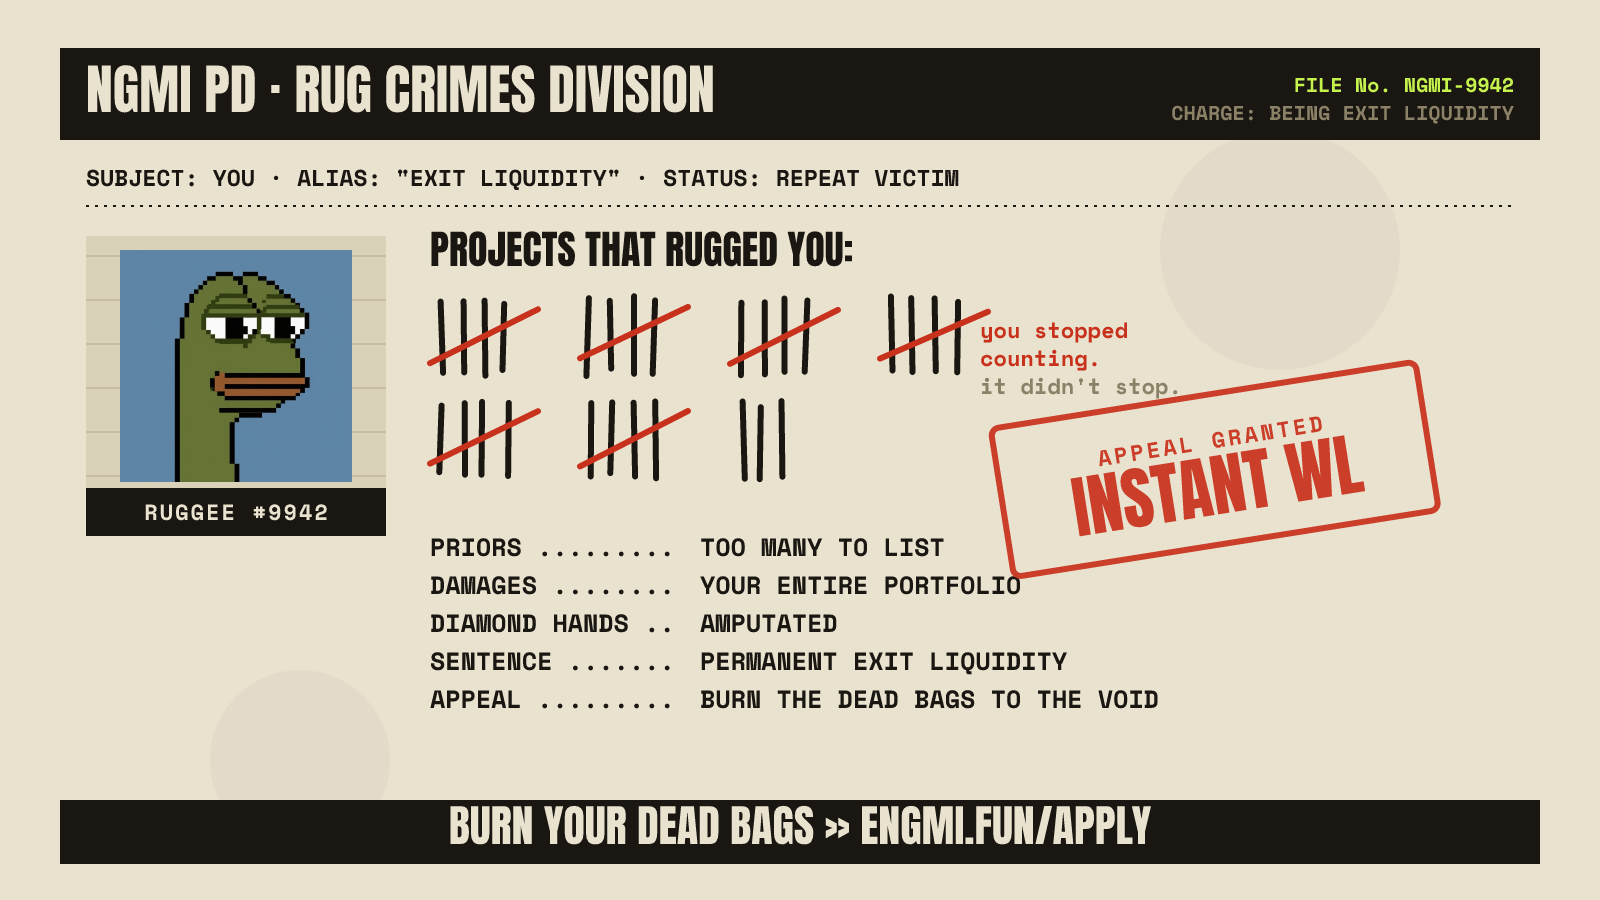
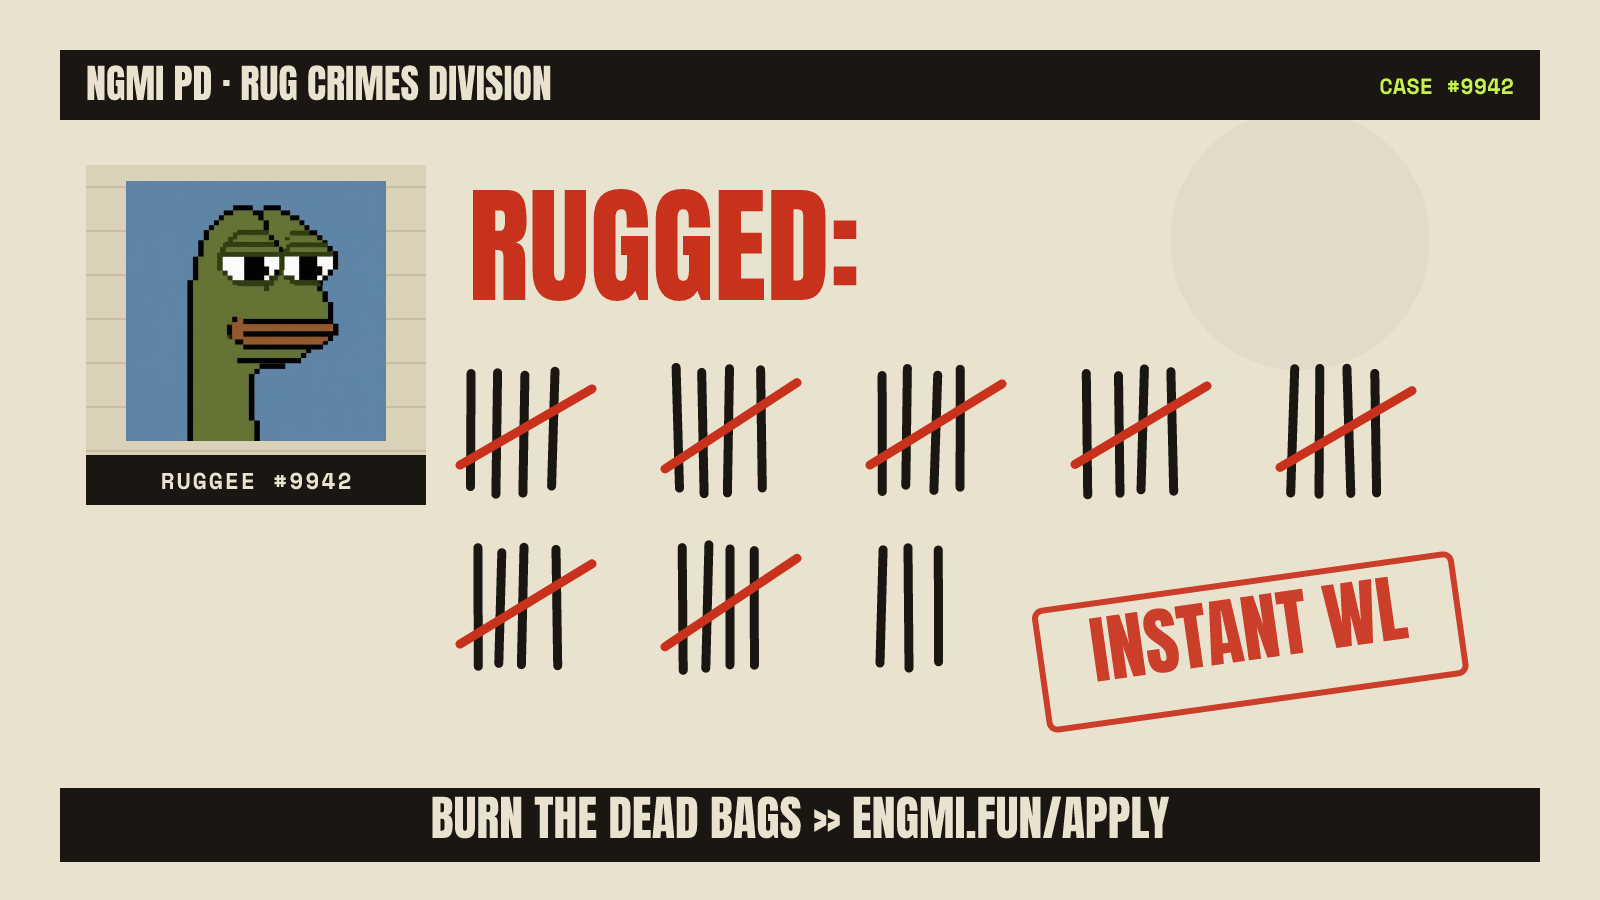
6th X post graphic: minimal rap-sheet (tally-mark hero, far less text)

diff --git a/make-x-launch-6.js b/make-x-launch-6.js
@@ -1,76 +1,59 @@
-// Sixth X post graphic. "Rap sheet" / case-file look: how many projects rugged you -> burn for instant WL.
+// Sixth X post graphic. Minimal "case file": a mugshot + a wall of tally marks = how many rugged you.
 const fs = require("fs");
 const { Resvg } = require("@resvg/resvg-js");
 const FONTS = ["assets/fonts/Anton-Regular.ttf", "assets/fonts/SpaceMono-Bold.ttf"];
-const PAPER = "#e9e2cf", INK = "#1a1712", RED = "#c8311c", SOFT = "#8a8167", PANEL = "#d9d1b8";
+const PAPER = "#e9e2cf", INK = "#1a1712", RED = "#c8311c", ACID = "#c6f24e", PANEL = "#d9d1b8";
 const pepe = "data:image/png;base64," + fs.readFileSync("assets/gallery/09.png").toString("base64");
 
-// scratched tally marks (groups of 5: 4 verticals + a red slash), with hand jitter
+// big hand-scratched tally marks (groups of 5: 4 verticals + a red slash)
 function tally(ox, oy) {
-  let s = "", groups = 7, perRow = 4, gapX = 150, gapY = 104;
+  let s = "", groups = 8, perRow = 5, gapX = 205, gapY = 176, H = 118, sp = 26;
   const j = (a) => (Math.random() * 2 - 1) * a;
   for (let g = 0; g < groups; g++) {
     const col = g % perRow, row = Math.floor(g / perRow);
     const x0 = ox + col * gapX, y0 = oy + row * gapY;
     const full = g < groups - 1, marks = full ? 4 : 3;
     for (let i = 0; i < marks; i++) {
-      const x = x0 + i * 22 + j(3);
-      s += `<line x1="${x.toFixed(1)}" y1="${(y0 + j(4)).toFixed(1)}" x2="${(x + j(3)).toFixed(1)}" y2="${(y0 + 72 + j(4)).toFixed(1)}" stroke="${INK}" stroke-width="6" stroke-linecap="round"/>`;
+      const x = x0 + i * sp + j(4);
+      s += `<line x1="${x.toFixed(1)}" y1="${(y0 + j(5)).toFixed(1)}" x2="${(x + j(4)).toFixed(1)}" y2="${(y0 + H + j(5)).toFixed(1)}" stroke="${INK}" stroke-width="9" stroke-linecap="round"/>`;
     }
-    if (full) s += `<line x1="${(x0 - 10).toFixed(1)}" y1="${(y0 + 62 + j(4)).toFixed(1)}" x2="${(x0 + 4 * 22 + 10).toFixed(1)}" y2="${(y0 + 8 + j(4)).toFixed(1)}" stroke="${RED}" stroke-width="6" stroke-linecap="round"/>`;
+    if (full) s += `<line x1="${(x0 - 14).toFixed(1)}" y1="${(y0 + H * 0.8 + j(5)).toFixed(1)}" x2="${(x0 + 4 * sp + 14).toFixed(1)}" y2="${(y0 + H * 0.12 + j(5)).toFixed(1)}" stroke="${RED}" stroke-width="9" stroke-linecap="round"/>`;
   }
   return s;
 }
-const rec = (y, k, v) => `<text x="430" y="${y}" font-family="Space Mono" font-weight="700" font-size="25" fill="${INK}">${k}</text><text x="700" y="${y}" font-family="Space Mono" font-weight="700" font-size="25" fill="${INK}">${v}</text>`;
 
 const svg = `
 <svg xmlns="http://www.w3.org/2000/svg" width="1600" height="900" viewBox="0 0 1600 900">
   <rect width="1600" height="900" fill="${PAPER}"/>
-  <circle cx="1280" cy="250" r="120" fill="#000" opacity="0.03"/>
-  <circle cx="300" cy="760" r="90" fill="#000" opacity="0.03"/>
+  <circle cx="1300" cy="240" r="130" fill="#000" opacity="0.03"/>
 
-  <!-- header bar -->
-  <rect x="60" y="48" width="1480" height="92" fill="${INK}"/>
-  <text x="86" y="112" font-family="Anton" font-size="54" fill="${PAPER}">NGMI PD &#183; RUG CRIMES DIVISION</text>
-  <text x="1514" y="92" text-anchor="end" font-family="Space Mono" font-weight="700" font-size="20" fill="#c6f24e">FILE No. NGMI-9942</text>
-  <text x="1514" y="120" text-anchor="end" font-family="Space Mono" font-weight="700" font-size="20" fill="${SOFT}">CHARGE: BEING EXIT LIQUIDITY</text>
-
-  <!-- subject line -->
-  <text x="86" y="186" font-family="Space Mono" font-weight="700" font-size="23" fill="${INK}">SUBJECT: YOU  &#183;  ALIAS: "EXIT LIQUIDITY"  &#183;  STATUS: REPEAT VICTIM</text>
-  <line x1="86" y1="206" x2="1514" y2="206" stroke="${INK}" stroke-width="2" stroke-dasharray="3 6"/>
+  <!-- header strip -->
+  <rect x="60" y="50" width="1480" height="70" fill="${INK}"/>
+  <text x="86" y="100" font-family="Anton" font-size="40" fill="${PAPER}">NGMI PD &#183; RUG CRIMES DIVISION</text>
+  <text x="1514" y="94" text-anchor="end" font-family="Space Mono" font-weight="700" font-size="22" fill="${ACID}">CASE #9942</text>
 
   <!-- mugshot -->
-  <g transform="translate(86,236)">
-    <rect width="300" height="300" fill="${PANEL}"/>
-    ${[0, 1, 2, 3, 4, 5].map((i) => `<line x1="0" y1="${20 + i * 44}" x2="300" y2="${20 + i * 44}" stroke="#b3aa8e" stroke-width="1"/>`).join("")}
-    <image href="${pepe}" x="34" y="14" width="232" height="232"/>
-    <rect x="0" y="252" width="300" height="48" fill="${INK}"/>
-    <text x="150" y="284" text-anchor="middle" font-family="Space Mono" font-weight="700" font-size="22" fill="${PAPER}" letter-spacing="2">RUGGEE #9942</text>
+  <g transform="translate(86,165)">
+    <rect width="340" height="340" fill="${PANEL}"/>
+    ${[0, 1, 2, 3, 4, 5, 6].map((i) => `<line x1="0" y1="${22 + i * 44}" x2="340" y2="${22 + i * 44}" stroke="#b3aa8e" stroke-width="1"/>`).join("")}
+    <image href="${pepe}" x="40" y="16" width="260" height="260"/>
+    <rect x="0" y="290" width="340" height="50" fill="${INK}"/>
+    <text x="170" y="324" text-anchor="middle" font-family="Space Mono" font-weight="700" font-size="23" fill="${PAPER}" letter-spacing="2">RUGGEE #9942</text>
   </g>
 
-  <!-- record column -->
-  <text x="430" y="266" font-family="Anton" font-size="40" fill="${INK}">PROJECTS THAT RUGGED YOU:</text>
-  ${tally(440, 300)}
-  <text x="980" y="338" font-family="Space Mono" font-weight="700" font-size="22" fill="${RED}">you stopped</text>
-  <text x="980" y="366" font-family="Space Mono" font-weight="700" font-size="22" fill="${RED}">counting.</text>
-  <text x="980" y="394" font-family="Space Mono" font-weight="700" font-size="22" fill="${SOFT}">it didn't stop.</text>
+  <!-- hero: RUGGED + tally wall -->
+  <text x="468" y="300" font-family="Anton" font-size="128" fill="${RED}">RUGGED:</text>
+  ${tally(474, 372)}
 
-  ${rec(556, "PRIORS .........", "TOO MANY TO LIST")}
-  ${rec(594, "DAMAGES ........", "YOUR ENTIRE PORTFOLIO")}
-  ${rec(632, "DIAMOND HANDS ..", "AMPUTATED")}
-  ${rec(670, "SENTENCE .......", "PERMANENT EXIT LIQUIDITY")}
-  ${rec(708, "APPEAL .........", "BURN THE DEAD BAGS TO THE VOID")}
-
-  <!-- red verdict stamp -->
-  <g transform="rotate(-9 1230 470)">
-    <rect x="1000" y="392" width="430" height="150" fill="none" stroke="${RED}" stroke-width="6" rx="8" opacity="0.92"/>
-    <text x="1215" y="446" text-anchor="middle" font-family="Space Mono" font-weight="700" font-size="22" fill="${RED}" letter-spacing="3" opacity="0.92">APPEAL GRANTED</text>
-    <text x="1215" y="512" text-anchor="middle" font-family="Anton" font-size="68" fill="${RED}" opacity="0.92">INSTANT WL</text>
+  <!-- red stamp -->
+  <g transform="rotate(-8 1250 640)">
+    <rect x="1040" y="582" width="420" height="120" fill="none" stroke="${RED}" stroke-width="6" rx="8" opacity="0.92"/>
+    <text x="1250" y="660" text-anchor="middle" font-family="Anton" font-size="74" fill="${RED}" opacity="0.92">INSTANT WL</text>
   </g>
 
   <!-- footer CTA -->
-  <rect x="60" y="800" width="1480" height="64" fill="${INK}"/>
-  <text x="800" y="844" text-anchor="middle" font-family="Anton" font-size="44" fill="${PAPER}">BURN YOUR DEAD BAGS  &#187;  ENGMI.FUN/APPLY</text>
+  <rect x="60" y="788" width="1480" height="74" fill="${INK}"/>
+  <text x="800" y="838" text-anchor="middle" font-family="Anton" font-size="48" fill="${PAPER}">BURN THE DEAD BAGS  &#187;  ENGMI.FUN/APPLY</text>
 </svg>`;
 
 const r = new Resvg(svg, { font: { fontFiles: FONTS, loadSystemFonts: false, defaultFontFamily: "Anton" }, fitTo: { mode: "width", value: 1600 } });